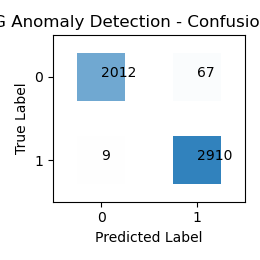
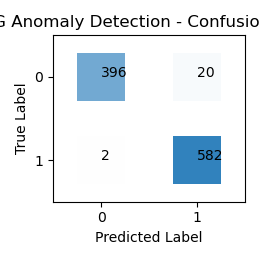
Main ECG fixed

diff --git a/Assignment02/WORK/sklearn_cpp/examples/main_ecg.cpp b/Assignment02/WORK/sklearn_cpp/examples/main_ecg.cpp
@@ -1,5 +1,9 @@
 #include <iostream>
 #include <vector>
+// Both of these are only needed for this specific example to do the 80:20 split if only one CSV file is provided, 
+// you can remove them if you have separate train and test CSV files
+#include <numeric> // for std::iota
+#include <random>  // for std::random_device, std::mt19937, std::shuffle
 
 #include "sklearn_cpp/utils/csv_reader.hpp"
 #include "sklearn_cpp/utils/visualize.hpp"
@@ -16,37 +20,48 @@ int main() {
     std::vector<std::vector<double>> x_test;
     std::vector<double> y_test;
 
-    std::vector<std::vector<double>> x_train;
-    std::vector<double> y_train;
-    std::vector<std::vector<double>> x_test;
-    std::vector<double> y_test;
-
     // Check if a separate test CSV was provided, if not split the training data into training and testing sets
-    if (TestCSVPATH != "") {
-        // REMOVED the "std::vector<...>" type declarations to prevent shadowing
+    if (std::string(TestCSVPATH) != "") {
+        // Load training and testing data from separate CSV files
+        //
         sklearn_cpp::utils::CSVReader::load(TrainCSVPATH, false, x_train, y_train);
         std::cout << "Loaded Training data: " << x_train.size() << " samples with " << x_train[0].size() << " features" << std::endl;
         
         sklearn_cpp::utils::CSVReader::load(TestCSVPATH, false, x_test, y_test);
         std::cout << "Loaded Test data: " << x_test.size() << " samples with " << x_test[0].size() << " features" << std::endl;
-    } else {
-        std::cout << "No separate test CSV provided, using 80:20 split for training and testing" << std::endl;
+    } 
+    // If there is seperate training and test data the below will not be needed:
+    else {
+        std::cout << "No separate test CSV provided, using randomized 80:20 split" << std::endl;
+        
         // load CSV file
         std::vector<std::vector<double>> x;
         std::vector<double> y;
         sklearn_cpp::utils::CSVReader::load(TrainCSVPATH, false, x, y);
         std::cout << "Loaded data: " << x.size() << " samples with " << x[0].size() << " features" << std::endl;
         
-        // Split into training and testing sets
         const std::size_t n_samples = x.size();
         const std::size_t n_train = static_cast<std::size_t>(n_samples * 0.8);
         
-        // USE .assign() to populate the outer variables!
-        x_train.assign(x.begin(), x.begin() + n_train);
-        y_train.assign(y.begin(), y.begin() + n_train);
+        // Create a vector of indices
+        std::vector<std::size_t> indices(n_samples);
+        std::iota(indices.begin(), indices.end(), 0);
         
-        x_test.assign(x.begin() + n_train, x.end());
-        y_test.assign(y.begin() + n_train, y.end());
+        // Shuffle the indices pseudo-randomly
+        std::random_device rd;
+        std::mt19937 g(rd());
+        std::shuffle(indices.begin(), indices.end(), g);
+        
+        // Distribute the data using the shuffled indices
+        for (std::size_t i = 0; i < n_train; ++i) {
+            x_train.push_back(x[indices[i]]);
+            y_train.push_back(y[indices[i]]);
+        }
+        
+        for (std::size_t i = n_train; i < n_samples; ++i) {
+            x_test.push_back(x[indices[i]]);
+            y_test.push_back(y[indices[i]]);
+        }
         
         std::cout << "Training set: " << x_train.size() << " samples with " << x_train[0].size() << " features" << std::endl;
         std::cout << "Test set: " << x_test.size() << " samples with " << x_test[0].size() << " features" << std::endl;
